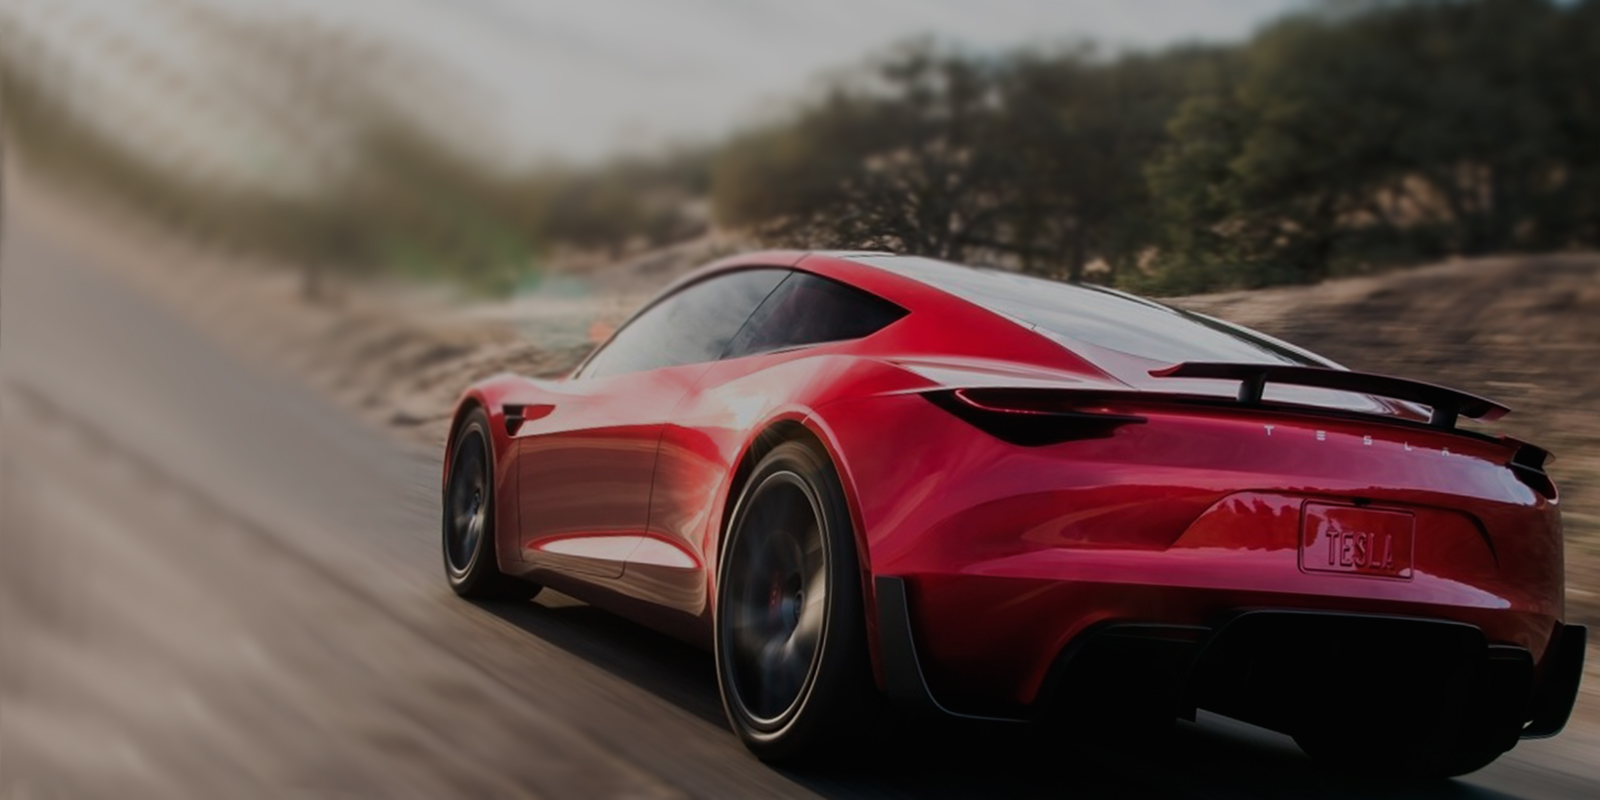
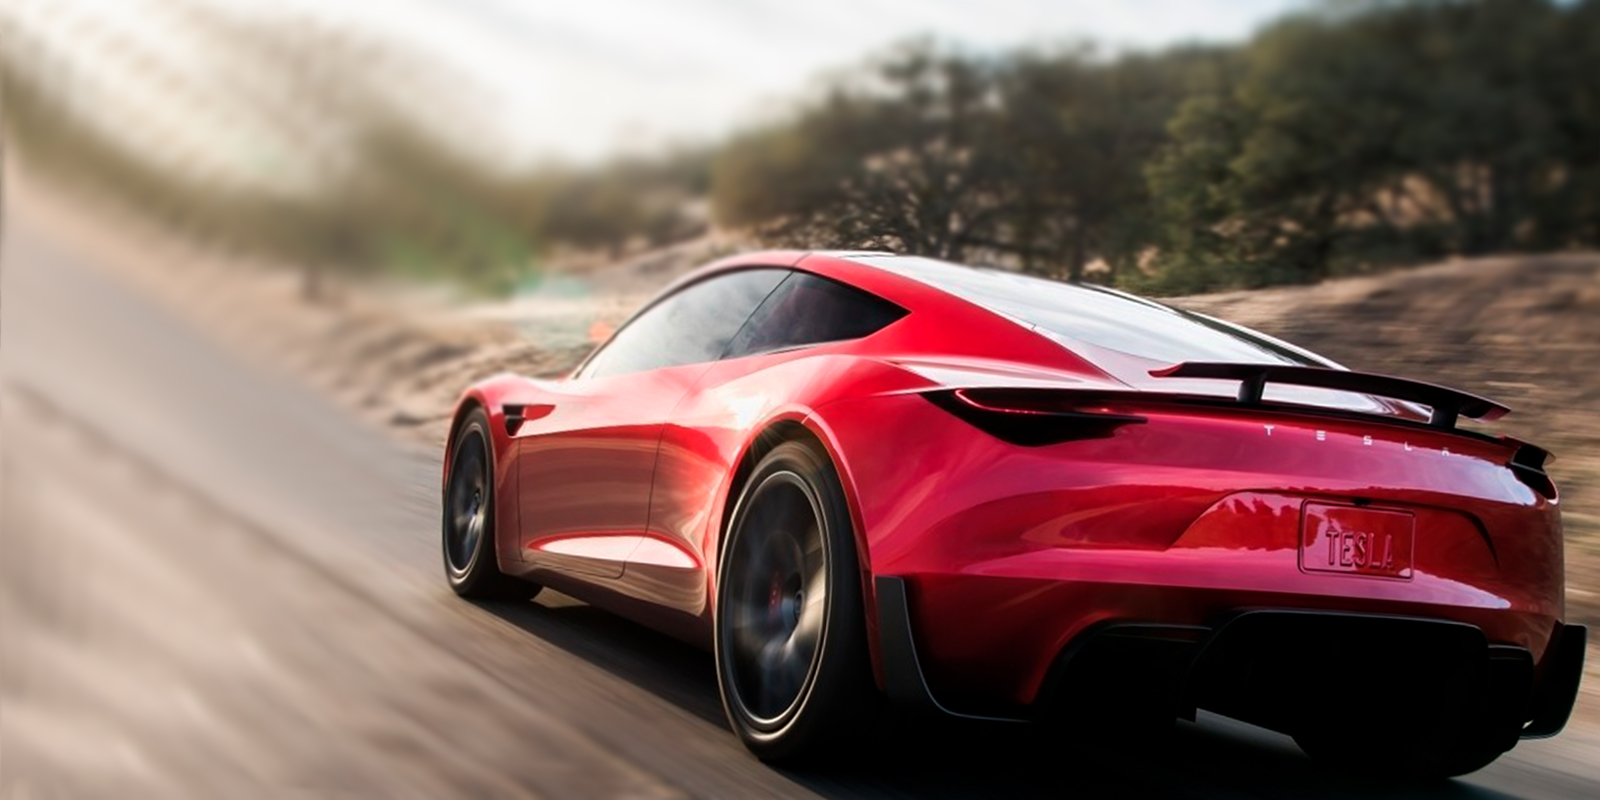
Replaced pictures with the same without shadow + CSS added shadow for pictures in header + CSS moved up the slider

diff --git a/css/style.css b/css/style.css
@@ -18,6 +18,9 @@ body {
 
 .header {
     height: 100vh;
+    position: absolute;
+    z-index: 5;
+    background: rgba(0, 0, 0, 0.3);
 }
 
 .container {
@@ -65,7 +68,7 @@ body {
 }
 
 .header-content__text {
-    width: 284;
+    width: 284px;
     margin-bottom: 25px;
 }
 
